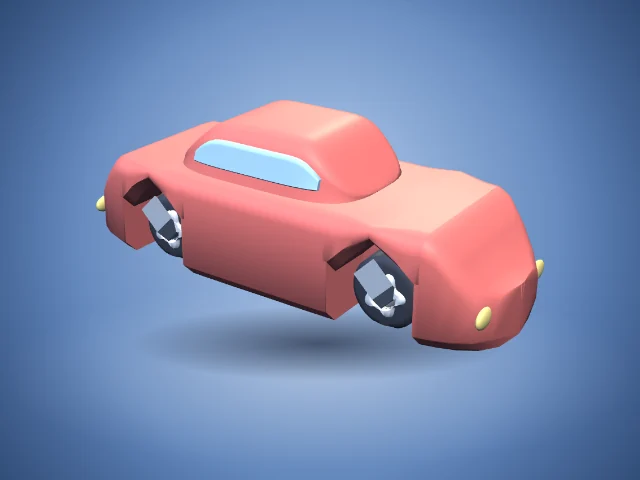
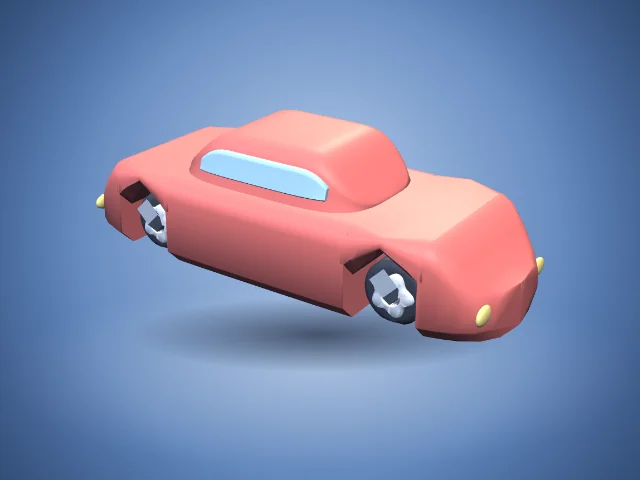
Sedan Maker: always-functional option clamps (body widens for the wheels, wells and roof kept clear, hub cap ring), smaller axle head, better proportions

Changed region(s): [[0.125, 0.1875, 0.875, 0.7812]]

diff --git a/programs/sedan-maker.html b/programs/sedan-maker.html
@@ -157,8 +157,13 @@
       // Car types. A type returns the model that the wheels, lights and stamps read.
       // ---------------------------------------------------------------------
       function sedanModel(p) {
-        var L = p.length, W2 = p.width / 2, R = p.wheelD / 2, flat = R * p.flat / 100;
-        var clr = p.clearance, d = p.axle / 2, rH = d + clr;
+        // Every option is clamped here so that the car always works: the wheels fit in their wells, the body widens
+        // if the wheels need room, the axle never gets too thick for its wheel, and the roof clears the wells.
+        var L = p.length, W2 = p.width / 2, R = Math.max(7, p.wheelD / 2), flat = R * Math.min(p.flat, 14) / 100;
+        var clr = clamp(p.clearance, 0.3, 0.7), d = Math.min(p.axle / 2, 0.28 * R), rH = d + clr;
+        var dF = rH + 0.9;
+        // across the car (one side): axle head plate, inset, flare, gap, hub cap, wheel, gap to the chassis wall
+        var stack = 0.8 + 0.8 + 1.5 * (dF - d) + clr + RIM_RAISE + (clr + 0.15), zcMin = d + 2.5;
         // The bottom of the wheel hole sits just above a cell centre of the print check's voxel grid (cells are L / 170
         // wide, at least 0.4 mm) and the pin sits less than one cell above it, so the pin's first layer has the hole's
         // last layer right under it and the print check sees no gap. The pin is moved down by up to 0.2 mm for this.
@@ -167,8 +172,11 @@
         var n = p.nose, half = L / 2;
         // wheel wells: each wheel sits in a gap in the side of the body. The roof of the well is a tent with 45 degree
         // sides, tangent to the wheel, so it prints without a bridge; the walls below it are straight.
-        var Rw = R + 1.4, TAN = 1, apex = ax + Rw * Math.SQRT2;
-        var xa = Math.min(p.wheelbase / 2, half - Rw - 6);
+        var Rw = R + 0.7, TAN = 1, apex = ax + Rw * Math.SQRT2;
+        var xa = clamp(p.wheelbase / 2, Rw + 3, half - Rw - 6);
+        var xEdge = xa + Rw, fEdge = Math.pow(Math.max(0.01, 1 - Math.pow(xEdge / half, n)), 1 / n);
+        W2 = Math.max(W2, (zcMin + stack + 5) / fEdge);
+        var ww = Math.min(p.wheelW, W2 * fEdge - stack - zcMin);
         var need = apex + 3.5;
         var hoodE = Math.max(p.hoodH, need), trunkE = Math.max(p.trunkH, need);
         var xf0 = half - p.hoodLen;
@@ -176,7 +184,7 @@
         var xr0 = xf0 - cl;
         var bf = clamp(half - xa - Rw - 1, 6, 0.24 * L);
         var m = {
-          L: L, W2: W2, R: R, pinDrop: pinDrop, Rw: Rw, apex: apex, TAN: TAN, ax: ax, d: d, rH: rH, clr: clr, xa: xa, xf0: xf0, xr0: xr0, cl: cl,
+          L: L, W2: W2, ww: ww, dF: dF, stack: stack, R: R, pinDrop: pinDrop, Rw: Rw, apex: apex, TAN: TAN, ax: ax, d: d, rH: rH, clr: clr, xa: xa, xf0: xf0, xr0: xr0, cl: cl,
           H: p.cabinH, flat: flat
         };
         var hwBase = function (x) { return W2 * Math.pow(Math.max(0, 1 - Math.pow(Math.abs(x) / half, n)), 1 / n); };
@@ -233,7 +241,7 @@
           out.push(loft(stationsBetween(r[0], r[1], Math.max(6, Math.round((r[1] - r[0]) / 2.5))).map(full)));
         });
         // chassis down the middle, through both wells, a little lower than the deck so it stays hidden
-        out.push(loft(stationsBetween(-xa - Rw - 2, xa + Rw + 2, 40).map(function (x) {
+        out.push(loft(stationsBetween(-xa - Rw - 2.0071, xa + Rw + 2.0071, 40).map(function (x) {
           var w = Math.min(m.hw(x), lay.zc);
           return sectionLoop(x, w, w, 0, m.D(x) - 1.2, 0.5, 1);
         })));
@@ -243,8 +251,8 @@
           for (i = 0; i <= 10; i++) dxs.push(-Rw + (2 * Rw * i) / 10);
           dxs.push(Rw + 1);
           out.push(loft(dxs.map(function (dx) {
-            var x = xc + dx;
-            return sectionLoop(x, m.hw(x), m.hw(x), archY(m, dx), m.D(x), p.corner, p.corner * 1.2);
+            var x = xc + dx + 0.0137; // off the stations of the neighbouring shells, so no two shells share a vertex
+            return sectionLoop(x, m.hw(x), m.hw(x), archY(m, dx), m.D(x), p.corner, p.corner * 1.2 + 0.35);
           })));
         });
         return concat(out);
@@ -294,11 +302,9 @@
       // Layout across the car for the +Z side, worked inwards from the side of the body so that the wheel and the head
       // of the axle stay inside the body outline: head, hub cap, wheel, gap, chassis wall.
       function wheelLayout(m, p) {
-        var ww = p.wheelW, dF = m.rH + 1.3, hwEdge = m.hw(Math.min(m.xa + m.Rw, m.xe));
+        var ww = m.ww, dF = m.dF, hwEdge = m.hw(Math.min(m.xa + m.Rw, m.xe));
         var zf2 = hwEdge - 0.8, zf1 = zf2 - 0.8, zf0 = zf1 - 1.5 * (dF - m.d), zr = zf0 - m.clr, zo = zr - RIM_RAISE, zi = zo - ww;
-        var zc = Math.max(m.d + 2.5, zi - (m.clr + 0.15));
-        var shift = zc + m.clr + 0.15 - zi;
-        return { zi: zi + shift, ww: ww, dF: dF, zr: zr + shift, zf0: zf0 + shift, zf1: zf1 + shift, zf2: zf2 + shift, zc: zc };
+        return { zi: zi, ww: ww, dF: dF, zr: zr, zf0: zf0, zf1: zf1, zf2: zf2, zc: zi - (m.clr + 0.15) };
       }
 
       // The wheel hole: a circle with a pointed top, so it prints without a sagging roof.
@@ -325,18 +331,28 @@
         });
       }
 
+      // The hub cap radius at the angle th for a style; the lobed styles scallop the edge.
+      function rimOuter(style, rr, th) {
+        if (style === 1) return rr * (0.88 + 0.12 * Math.cos(5 * th));
+        if (style === 2) return rr * (0.88 + 0.12 * Math.cos(8 * th));
+        return rr;
+      }
+      // Smallest width of the hub cap ring, so it never runs into the pointed top of the wheel hole.
+      function rimRing(m, style, rr) {
+        var w = 1e9, i, th;
+        for (i = 0; i < 240; i++) { th = (i / 240) * TAU; w = Math.min(w, rimOuter(style, rr, th) - 0.6 - holeR(m.rH, th)); }
+        return w;
+      }
       function rimShell(m, p, lay, xc) {
-        var R = m.R, style = Math.round(p.rimStyle), rr = (p.rimSize / 100) * R, zA = lay.zi + lay.ww - 1, zB = lay.zi + lay.ww + RIM_RAISE;
+        var R = m.R, style = Math.round(p.rimStyle), top = Math.min(R - Math.min(2, lay.ww * 0.3) - 0.3, m.ax - 0.4);
+        var rr = clamp((p.rimSize / 100) * R, m.rH + 1.2, top), zA = lay.zi + lay.ww - 1, zB = lay.zi + lay.ww + RIM_RAISE;
+        // grow the cap until the ring around the hole is at least 0.6 mm wide, and drop the lobes if it cannot
+        while (rimRing(m, style, rr) < 0.6 && rr < top) rr = Math.min(top, rr + 0.2);
+        if (rimRing(m, style, rr) < 0.6 && style) { style = 0; rr = clamp((p.rimSize / 100) * R, m.rH + 1.2, top); while (rimRing(m, 0, rr) < 0.6 && rr < top) rr = Math.min(top, rr + 0.2); }
         var prof = [[0, zA, 1], [0, zA, 4], [0, zB - 0.6, 4], [-0.6, zB, 4], [0, zB, 1]];
-        // the hub cap radius at the angle th; the star styles scallop the edge
-        function outer(th) {
-          if (style === 1) return rr * (0.84 + 0.16 * Math.cos(5 * th));
-          if (style === 2) return rr * (0.84 + 0.16 * Math.cos(8 * th));
-          return rr;
-        }
         // the first and last points are on the hole; the middle three are on the outer edge
         return ringSolid(prof.length, SEG, function (i, j, th) {
-          var e = prof[i], r = e[2] === 1 ? holeR(m.rH, th) : outer(th) + e[0];
+          var e = prof[i], r = e[2] === 1 ? holeR(m.rH, th) : rimOuter(style, rr, th) + e[0];
           return [xc + r * Math.cos(th), m.ax + r * Math.sin(th), e[1]];
         });
       }
@@ -460,7 +476,7 @@
         });
         meshes.push({ name: 'tire', positions: concat(tires), color: '#3b3f4a', singlePart: true });
         meshes.push({ name: 'rim', positions: concat(rims), color: '#d9dee5', singlePart: true });
-        meshes.push({ name: 'axle', positions: concat(axles), color: '#b4bec9', singlePart: true });
+        meshes.push({ name: 'axle', positions: concat(axles), color: '#d9dee5', singlePart: true });
         stamps.forEach(function (st) {
           var pos = stampPositions(st);
           if (pos.length) meshes.push({ name: 'stamp', positions: pos, color: '#3b3f4a', singlePart: true });
@@ -477,9 +493,9 @@
           format: function (v) { return names[Math.round(v)]; } };
       }
       var DEFAULTS = {
-        length: 110, width: 42, corner: 3.5, nose: 4, noseH: 12, tailH: 14, hoodH: 24, trunkH: 25,
-        hoodLen: 34, cabinLen: 50, cabinH: 12, rakeF: 0.9, rakeR: 1.1, cabinW: 80, crown: 6, windows: 1, lights: 1,
-        wheelD: 17, wheelW: 7, wheelbase: 60, flat: 12, tread: 12, rimStyle: 1, rimSize: 62,
+        length: 118, width: 46, corner: 4, nose: 4, noseH: 11, tailH: 12, hoodH: 22, trunkH: 23,
+        hoodLen: 34, cabinLen: 54, cabinH: 12, rakeF: 0.9, rakeR: 1.1, cabinW: 80, crown: 6, windows: 1, lights: 1,
+        wheelD: 16, wheelW: 7, wheelbase: 70, flat: 12, tread: 12, rimStyle: 1, rimSize: 62,
         clearance: 0.4, axle: 6,
         stampSize: 14, stampRaise: 1, stampRotation: 0
       };
@@ -505,7 +521,7 @@
         partNames: { body: 'Car body', cabin: 'Roof and pillars', windows: 'Windows', lights: 'Lights', tire: 'Tires', rim: 'Wheel hubs', axle: 'Axles', stamp: 'Car part' },
         parameters: [
           slider('Body', 'length', 'Car length', ' mm', 80, 150, 1, DEFAULTS.length),
-          slider('Body', 'width', 'Body width (wheels sit inside it)', ' mm', 36, 60, 1, DEFAULTS.width),
+          slider('Body', 'width', 'Body width (widens by itself if the wheels need room)', ' mm', 36, 64, 1, DEFAULTS.width),
           slider('Body', 'hoodH', 'Hood height (raised to clear the wheel wells)', ' mm', 20, 34, 0.5, DEFAULTS.hoodH),
           slider('Body', 'trunkH', 'Trunk height', ' mm', 20, 34, 0.5, DEFAULTS.trunkH),
           slider('Body', 'noseH', 'Nose height', ' mm', 8, 22, 0.5, DEFAULTS.noseH),
@@ -521,14 +537,14 @@
           slider('Cabin', 'cabinW', 'Cabin width', '%', 66, 92, 1, DEFAULTS.cabinW),
           slider('Cabin', 'crown', 'Roof roundness', ' mm', 2, 9, 0.5, DEFAULTS.crown),
           choice('Cabin', 'windows', 'Windows', ['Off', 'On'], DEFAULTS.windows),
-          slider('Wheels', 'wheelD', 'Wheel size', ' mm', 13, 24, 0.5, DEFAULTS.wheelD),
+          slider('Wheels', 'wheelD', 'Wheel size', ' mm', 15, 26, 0.5, DEFAULTS.wheelD),
           slider('Wheels', 'wheelW', 'Wheel width', ' mm', 5, 10, 0.5, DEFAULTS.wheelW),
           slider('Wheels', 'wheelbase', 'Distance between axles', ' mm', 40, 95, 1, DEFAULTS.wheelbase),
-          slider('Wheels', 'flat', 'Flat spot where the wheel meets the bed (too little may sag)', '%', 8, 20, 1, DEFAULTS.flat),
+          slider('Wheels', 'flat', 'Flat spot where the wheel meets the bed (too little may sag)', '%', 8, 14, 1, DEFAULTS.flat),
           slider('Wheels', 'tread', 'Tire tread bumps', '', 0, 20, 1, DEFAULTS.tread),
           choice('Wheels', 'rimStyle', 'Hub cap', ['Plain', '5 lobes', '8 lobes'], DEFAULTS.rimStyle),
           slider('Wheels', 'rimSize', 'Hub cap size', '%', 45, 78, 1, DEFAULTS.rimSize),
-          slider('Print fit', 'clearance', 'Wheel clearance (0.4 suits most printers)', ' mm', 0.2, 0.8, 0.2, DEFAULTS.clearance),
+          slider('Print fit', 'clearance', 'Wheel clearance (0.4 suits most printers)', ' mm', 0.3, 0.7, 0.1, DEFAULTS.clearance),
           slider('Print fit', 'axle', 'Axle thickness', ' mm', 4.8, 8, 0.2, DEFAULTS.axle),
           { group: 'Part size', tab: 'parts', key: 'stampSize', label: 'Part size', unit: ' mm', min: 6, max: 30, step: 1, value: DEFAULTS.stampSize },
           { group: 'Part size', tab: 'parts', key: 'stampRaise', label: 'Part height', unit: 'x', min: 0.6, max: 1.8, step: 0.1, value: DEFAULTS.stampRaise },
@@ -536,11 +552,11 @@
         ],
         presets: [
           presetOf('Default sedan', {}),
-          presetOf('Compact', { length: 92, width: 38, wheelbase: 56, hoodLen: 28, cabinLen: 44, cabinH: 13, wheelD: 17, wheelW: 6 }),
-          presetOf('Long limo', { length: 140, wheelbase: 96, hoodLen: 40, cabinLen: 66, cabinH: 13, hoodH: 20, trunkH: 20 }),
-          presetOf('Sporty low', { length: 118, width: 46, hoodH: 17, trunkH: 17, cabinH: 11, rakeF: 1.4, rakeR: 1.6, wheelD: 22, wheelW: 9, rimStyle: 2 }),
-          presetOf('Chunky wheels', { wheelD: 25, wheelW: 10, wheelbase: 72, tread: 12, hoodH: 22, trunkH: 22 }),
-          presetOf('Tall and boxy', { cabinH: 20, rakeF: 0.4, rakeR: 0.4, cabinLen: 54, nose: 5, cabinW: 88 })
+          presetOf('Compact', { length: 96, width: 42, wheelbase: 56, hoodLen: 28, cabinLen: 44, cabinH: 11, wheelD: 17, wheelW: 6, hoodH: 24, trunkH: 25 }),
+          presetOf('Long limo', { length: 150, wheelbase: 108, hoodLen: 42, cabinLen: 70, cabinH: 11 }),
+          presetOf('Sporty low', { length: 124, width: 52, cabinH: 10, rakeF: 1.4, rakeR: 1.6, wheelD: 23, wheelW: 9, rimStyle: 2 }),
+          presetOf('Chunky wheels', { wheelD: 24, wheelW: 10, wheelbase: 76, tread: 12 }),
+          presetOf('Tall and boxy', { cabinH: 18, rakeF: 0.4, rakeR: 0.4, cabinLen: 56, nose: 5, cabinW: 88 })
         ],
         tabs: [{
           id: 'parts',

diff --git a/docs/sedan-maker.md b/docs/sedan-maker.md
@@ -21,7 +21,7 @@ The wheels sit **inside the body in wheel wells**: the side of the body is open 
 
 ## Wheel wells
 
-The roof of each well is a **tent with 45 degree sides tangent to the wheel** (apex at `axle height + 1.41 x (wheel radius + 1.4)`), so it prints without a bridge; the well walls below the tent are straight. The hood and trunk heights are raised automatically to leave 3.5 mm of roof over the apex (so the defaults are 24 and 25 mm, with 17 mm wheels). The layout across the car is worked inwards from the body side: axle head, hub cap, wheel, gap, chassis wall. A narrow body or a wide wheel shrinks the chassis; it never goes below the axle thickness plus 2.5 mm each side.
+The roof of each well is a **tent with 45 degree sides tangent to the wheel** (apex at `axle height + 1.41 x (wheel radius + 0.7)`), so it prints without a bridge; the well walls below the tent are straight. The hood and trunk heights are raised automatically to leave 3.5 mm of roof over the apex (the defaults are 22 and 23 mm, with 16 mm wheels). The layout across the car is worked inwards from the body side: axle head, hub cap, wheel, gap, chassis wall. 
 
 ## Car parts tab
 
@@ -37,6 +37,19 @@ The page is built so a truck or an ice cream van can be added later without touc
 2. Register it in `CAR_TYPES` and add a **Car type** choice parameter (two options become a toggle, three or more a dropdown) that picks the function in `build`.
 3. Mesh builders read only the model, so they are shared. A van box or a truck bed is another loft added to `build` for that type.
 
+## Always functional
+
+`sedanModel` clamps every option so that no combination of sliders makes a car that cannot work:
+
+- The **body widens by itself** if the wheels need more room across than the Body width slider gives (axle head, hub cap, wheel, gaps and a chassis wall at least axle thickness plus 2.5 mm each side).
+- The **wheel width** is reduced if it still would not fit; the wells are kept at least 3 mm apart and 6 mm from the ends (the Distance between axles slider is clamped).
+- The **hood, trunk and deck** are raised to leave 3.5 mm of roof over each well, the nose and tail blends keep the wells covered.
+- The **axle thickness** is limited to 28 percent of the wheel radius, the wheel clearance to 0.3 to 0.7 mm, the flat spot to 14 percent, the wheel size to at least 15 mm.
+- The **hub cap** grows until its ring around the pointed hole is at least 0.6 mm wide, and drops its lobes if it cannot; it never reaches below the bed.
+- No two shells of the body share a vertex, so the body stays manifold at any length.
+
+A random sweep (700 random slider settings plus the defaults and presets) checks every mesh is watertight, the lowest point is on the bed, the chassis, head, wells and roof invariants above hold, and no wheel vertex lies inside the body, cabin or axle (and no body or axle vertex inside a wheel). The script is not in the repo; rerun the same idea after any change to `sedanModel`, `wheelLayout`, `rimShell` or `lowerBody`.
+
 ## Checks
 
-`node scripts/ci/check-generator.mjs sedan-maker`: every mesh is watertight and manifold for the defaults and all six presets, and every slider at its minimum and maximum. The default model reads clean in the print check; the test stamps add one small warning from the exhaust pipe. Other presets have small known overhang errors recorded in `ci/printability-baseline.json` (a few cells at the axle pin or tire edge where the 0.4 mm clearance is not lined up with the print check's voxels, and the upright rear window of Tall and boxy). A real slicer prints a 0.4 mm gap as two layers. Nothing has been physically printed.
+`node scripts/ci/check-generator.mjs sedan-maker`: every mesh is watertight and manifold for the defaults and all six presets, and every slider at its minimum and maximum. The default model reads clean in the print check; the test stamps add one small warning from the exhaust pipe. Sporty low and Chunky wheels have small known overhang errors (tire edge and pin cells) recorded in `ci/printability-baseline.json`; the other presets only show the exhaust-stamp warning. A real slicer prints a 0.4 mm gap as two layers. Nothing has been physically printed.
